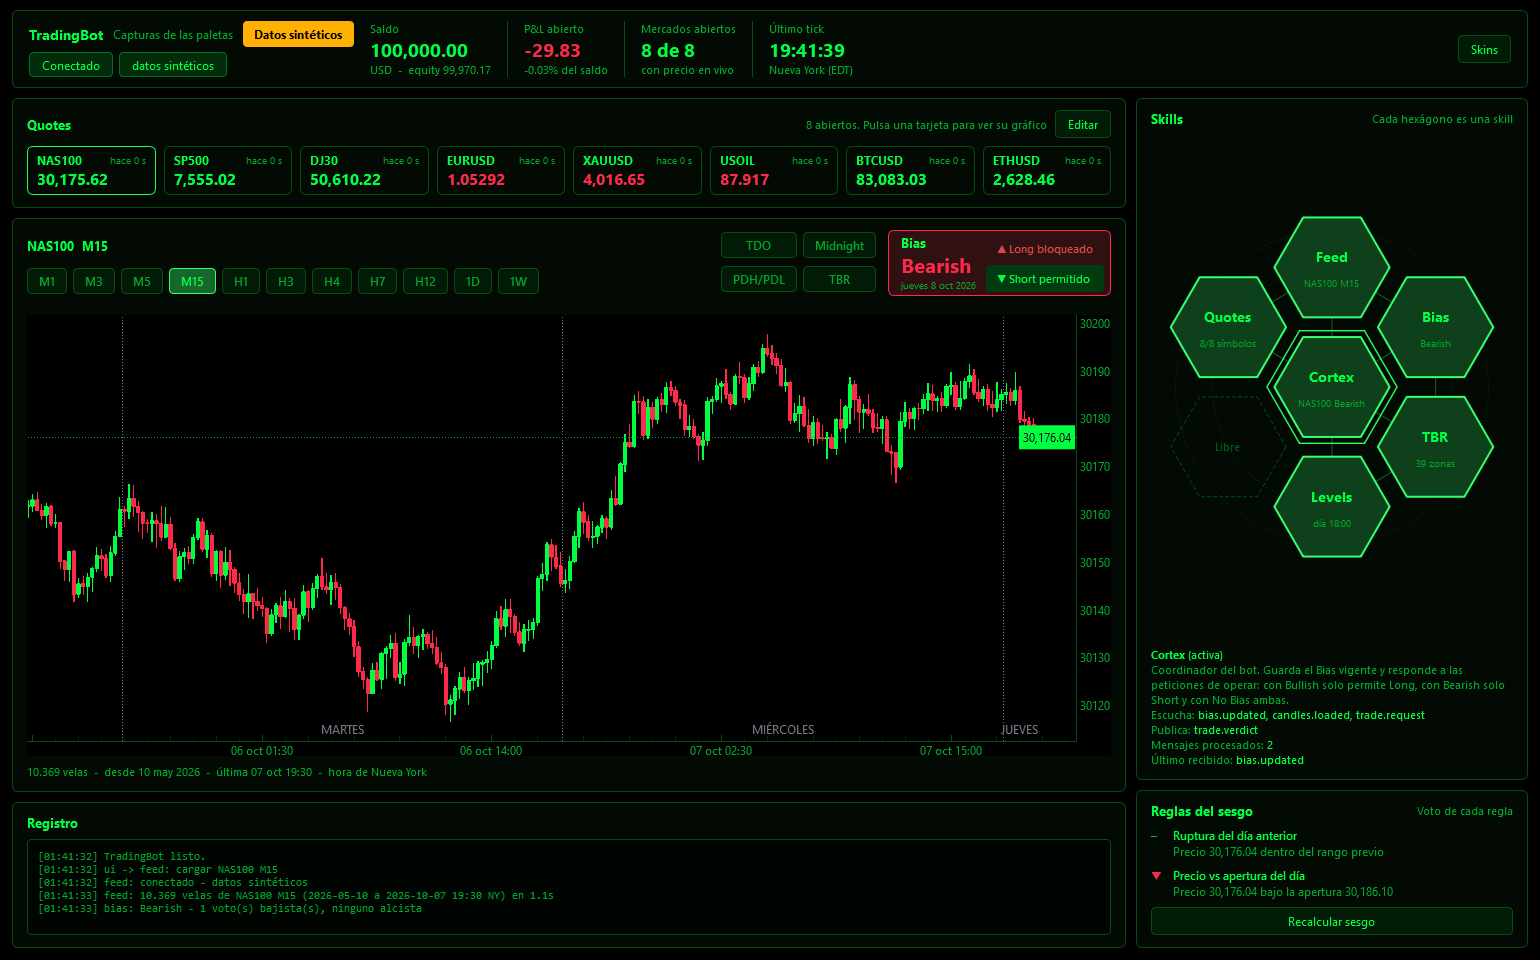
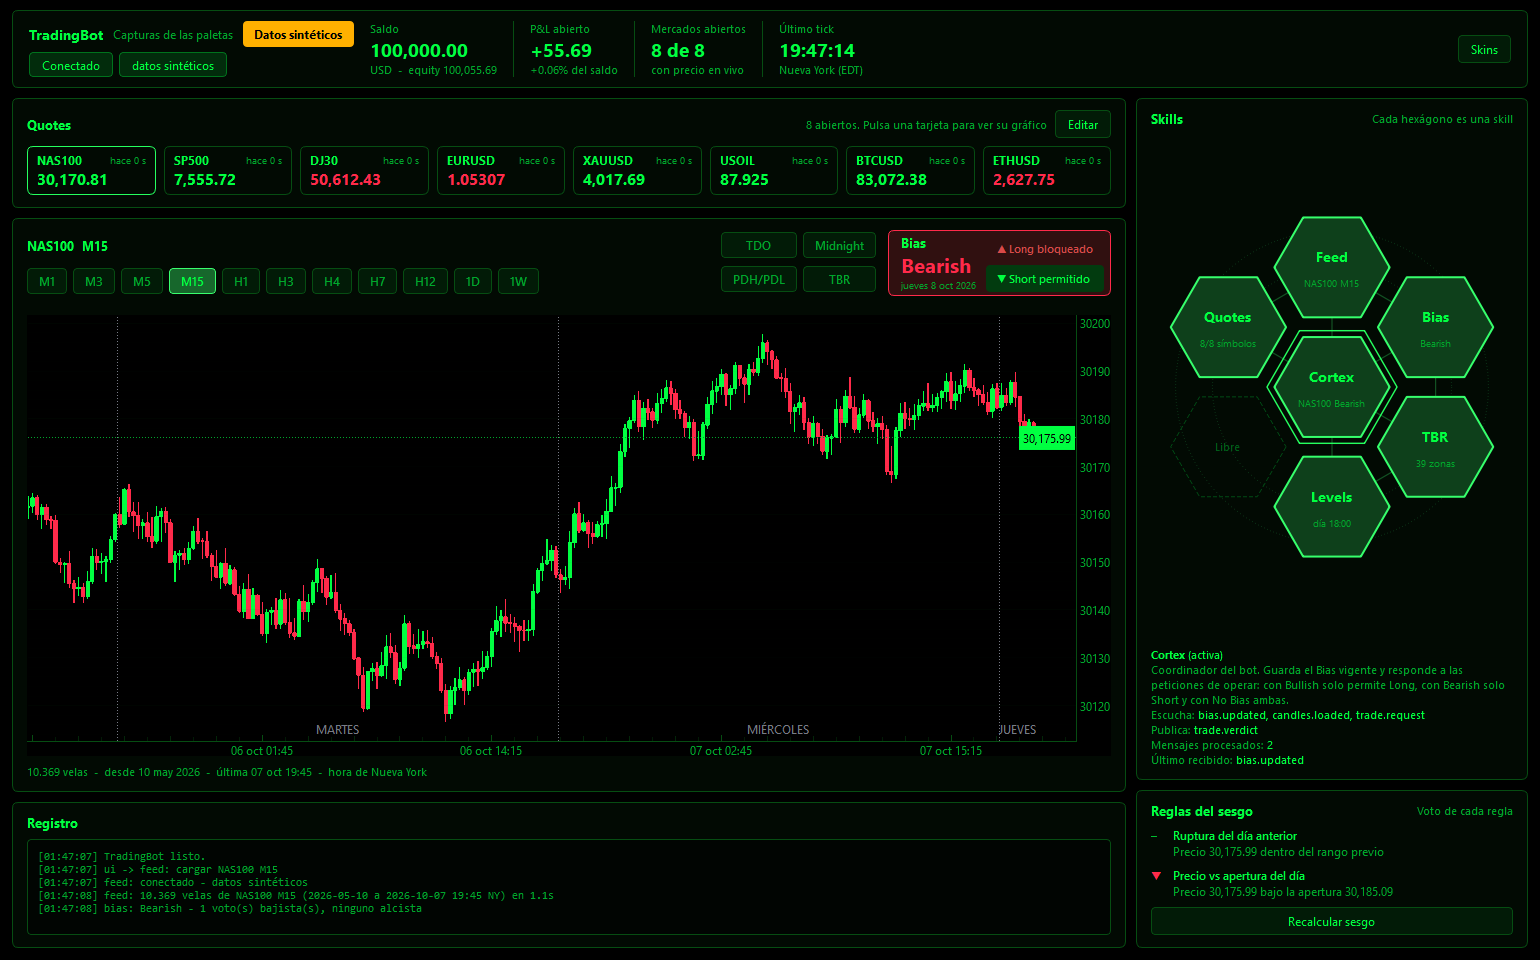
TBR traslúcidas: relleno al 12 % y nueva clave TBR_LINE_OPACITY para sus líneas

diff --git a/tradingbot/skills/tbr/skill.py b/tradingbot/skills/tbr/skill.py
@@ -3,7 +3,8 @@ from __future__ import annotations
 
 from ...core import Event, Skill, register_skill
 from ...clock import server_minus_ny
-from .zones import DEFAULT_DAYS, DEFAULT_MAX_TF_MINUTES, DEFAULT_OPACITY, compute, zones_from_settings
+from .zones import (DEFAULT_DAYS, DEFAULT_LINE_OPACITY, DEFAULT_MAX_TF_MINUTES, DEFAULT_OPACITY, compute,
+                    zones_from_settings)
 from ...timeframes import display_label, minutes
 
 
@@ -34,11 +35,14 @@ class TbrSkill(Skill):
         self.days = self.settings.get_int("DAYS", DEFAULT_DAYS)
         self.max_tf = self.settings.get_int("MAX_TF_MINUTES", DEFAULT_MAX_TF_MINUTES)
         opacity = self.settings.get_float("OPACITY", DEFAULT_OPACITY)
-        if not 0 <= opacity <= 100:
-            raise ValueError(f"TBR_OPACITY={opacity:g} debe estar entre 0 y 100 (%).")
+        line_opacity = self.settings.get_float("LINE_OPACITY", DEFAULT_LINE_OPACITY)
+        for key, value in (("OPACITY", opacity), ("LINE_OPACITY", line_opacity)):
+            if not 0 <= value <= 100:
+                raise ValueError(f"TBR_{key}={value:g} debe estar entre 0 y 100 (%).")
         if self.days < 1:
             raise ValueError(f"TBR_DAYS={self.days} debe ser 1 o más.")
         self.opacity = opacity / 100
+        self.line_opacity = line_opacity / 100
 
     def handle(self, event: Event) -> None:
         if self.error:
@@ -65,4 +69,5 @@ class TbrSkill(Skill):
         self.set_caption(f"{len(sessions)} zonas" if available else f"no en {display_label(tf)}")
         self.publish("tbr.updated", {"symbol": p["symbol"], "timeframe": tf, "sessions": sessions,
                                      "available": available, "estimated": estimated, "opacity": self.opacity,
+                                     "line_opacity": self.line_opacity,
                                      "zones": self.zones, "max_tf": self.max_tf})

diff --git a/tradingbot/ui/chart.py b/tradingbot/ui/chart.py
@@ -253,7 +253,8 @@ class ChartView(pg.PlotWidget):
         self._n = 0
         self._tbr_items: list = []
         self._tbr_sessions: list = []
-        self._tbr_opacity = 0.25
+        self._tbr_opacity = 0.12
+        self._tbr_line_opacity = 0.6
         self._tbr_visible = False
         self._day_items: list = []
         self._day_lines: list = []
@@ -371,11 +372,13 @@ class ChartView(pg.PlotWidget):
         self._lines.clear()
 
     # -- TBR: zonas horarias y sus niveles ---------------------------------------------------------
-    def set_tbr(self, sessions: list, opacity: float | None = None) -> None:
+    def set_tbr(self, sessions: list, opacity: float | None = None, line_opacity: float | None = None) -> None:
         """Zonas TBR calculadas (tradingbot.skills.tbr.zones.Session); solo se ven con show_tbr(True)."""
         self._tbr_sessions = list(sessions)
         if opacity is not None:
             self._tbr_opacity = opacity
+        if line_opacity is not None:
+            self._tbr_line_opacity = line_opacity
         self._draw_tbr()
 
     def show_tbr(self, visible: bool) -> None:
@@ -406,7 +409,7 @@ class ChartView(pg.PlotWidget):
                 ys += [level.price, level.price]
         for (color, kind), (xs, ys) in lines.items():
             pen_color = QColor(color)
-            pen_color.setAlphaF(0.85)
+            pen_color.setAlphaF(self._tbr_line_opacity)
             style = Qt.PenStyle.DotLine if kind == "mid" else Qt.PenStyle.SolidLine   # 50 %: punteada
             curve = pg.PlotCurveItem(x=np.array(xs), y=np.array(ys), connect="pairs",
                                      pen=pg.mkPen(pen_color, width=1, style=style))

diff --git a/tests/test_tbr.py b/tests/test_tbr.py
@@ -129,9 +129,9 @@ def run_skill(env_text, timeframe="15m", offset=None):
 
 
 def test_la_skill_publica_las_zonas():
-    skill, events = run_skill("TBR_OPACITY=20\nTBR_DAYS=1\n", offset=None)
+    skill, events = run_skill("TBR_OPACITY=20\nTBR_LINE_OPACITY=50\nTBR_DAYS=1\n", offset=None)
     p = events[-1].payload
-    assert p["available"] and p["estimated"] and p["opacity"] == 0.2
+    assert p["available"] and p["estimated"] and p["opacity"] == 0.2 and p["line_opacity"] == 0.5
     assert [s.zone.name for s in p["sessions"]] == ["Pre-NY", "NY-AM"]
     _, events = run_skill("", timeframe="4h")
     assert events[-1].payload["available"] is False and events[-1].payload["sessions"] == []
@@ -140,6 +140,8 @@ def test_la_skill_publica_las_zonas():
 def test_la_skill_rechaza_valores_no_validos():
     skill, events = run_skill("TBR_OPACITY=150\n")
     assert skill.state.value == "error" and "TBR_OPACITY" in skill.note and not events
+    skill, events = run_skill("TBR_LINE_OPACITY=-5\n")
+    assert skill.state.value == "error" and "TBR_LINE_OPACITY" in skill.note and not events
 
 
 def test_el_boton_tbr_muestra_y_oculta_las_zonas(tmp_path, monkeypatch):

diff --git a/tests/test_appconfig.py b/tests/test_appconfig.py
@@ -103,7 +103,7 @@ def test_el_tradingbot_env_del_proyecto_documenta_cada_clave_con_sus_valores_por
     keys = [m.group(1) for line in lines if (m := re.match(r"#?([A-Z][A-Z0-9_]+)=", line))]
     for key in ("APP_PROFILE", "APP_DEMO", "FEED_SYMBOL", "FEED_TIMEFRAME", "FEED_MAX_BARS", "QUOTES_INTERVAL",
                 "QUOTES_SERVER_UTC_OFFSET", "BIAS_RULES", "BIAS_MIN_VOTES", "BIAS_REQUIRE_ALL", "TBR_SHOW",
-                "TBR_DAYS", "TBR_OPACITY", "TBR_MAX_TF_MINUTES", "TBR_ZONES", "TBR_ASIA_HOURS", "TBR_NY_PM_COLOR",
+                "TBR_DAYS", "TBR_OPACITY", "TBR_LINE_OPACITY", "TBR_MAX_TF_MINUTES", "TBR_ZONES", "TBR_ASIA_HOURS", "TBR_NY_PM_COLOR",
                 "LEVELS_SHOW_TDO", "LEVELS_SHOW_MIDNIGHT", "LEVELS_SHOW_PDHL", "LEVELS_SEPARATORS",
                 "LEVELS_DAYS", "LEVELS_MAX_TF_MINUTES", "LEVELS_TDO_COLOR", "LEVELS_SEPARATOR_COLOR",
                 "LEVELS_DAY_START", "LEVELS_INDEX_DAY_START", "LEVELS_US_INDICES"):

diff --git a/tradingbot/ui/main_window.py b/tradingbot/ui/main_window.py
@@ -512,7 +512,7 @@ class MainWindow(QMainWindow):
     def _on_tbr(self, p: dict) -> None:
         if p["symbol"] != self.charted_symbol or p["timeframe"] != self.current_tf():
             return                                      # llega tarde: ya se está viendo otro gráfico
-        self.chart.set_tbr(p["sessions"], p["opacity"])
+        self.chart.set_tbr(p["sessions"], p["opacity"], p.get("line_opacity"))
         zones = ", ".join(f"{z.name} {z.hours}" for z in p["zones"])
         if p["available"]:
             tip = (f"Zonas TBR en hora de Nueva York: {zones}.\n"

diff --git a/tradingbot/skills/tbr/zones.py b/tradingbot/skills/tbr/zones.py
@@ -23,7 +23,8 @@ EXTEND_BARS = 8          # un nivel aún no tomado se prolonga hasta este margen
 # Valores por defecto (se cambian en tradingbot.env, bloque TBR)
 DEFAULT_SHOW = False
 DEFAULT_DAYS = 10
-DEFAULT_OPACITY = 25     # % de opacidad del relleno de las zonas
+DEFAULT_OPACITY = 12     # % de opacidad del relleno de las zonas (traslúcido)
+DEFAULT_LINE_OPACITY = 60   # % de opacidad de las líneas High, Low y 50 %
 DEFAULT_MAX_TF_MINUTES = 60
 DEFAULT_ZONES = (        # clave, nombre, horario NY, color
     ("ASIA", "Asia", "20:00-00:00", "#FFD60A"),

diff --git a/README.md b/README.md
@@ -132,7 +132,8 @@ en bloques comentados, uno por skill o parte del bot. Cada clave empieza por el 
 | **TBR** — zonas horarias del botón TBR | | |
 | `TBR_SHOW` | `false` | Botón TBR activado al arrancar. |
 | `TBR_DAYS` | `10` | Días naturales hacia atrás que se dibujan. |
-| `TBR_OPACITY` | `25` | Opacidad del relleno de las zonas, en % (0-100). |
+| `TBR_OPACITY` | `12` | Opacidad del relleno de las zonas, en % (0 invisible, 100 opaco); valores bajos dan el efecto traslúcido. |
+| `TBR_LINE_OPACITY` | `60` | Opacidad de las líneas High, Low y 50 % de las zonas, en % (0-100). |
 | `TBR_MAX_TF_MINUTES` | `60` | Timeframe máximo (en minutos) con el que se dibujan. |
 | `TBR_ZONES` | `ASIA, LONDON, PRE_NY, NY_AM, NY_PM` | Zonas activas y su orden. |
 | `TBR_<ZONA>_NAME` / `_HOURS` / `_COLOR` | ver tabla de TBR | Nombre, horario NY (`HH:MM-HH:MM`; si acaba antes de empezar, termina al día siguiente) y color `#RRGGBB` de cada zona. |
